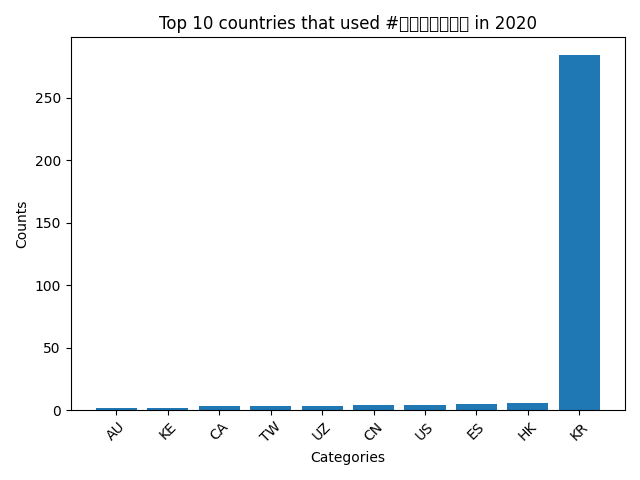
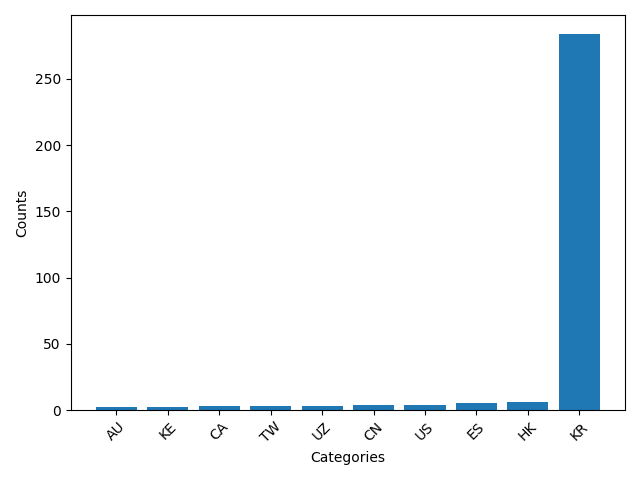
ah

diff --git a/src/alternative_reduce.py b/src/alternative_reduce.py
@@ -20,35 +20,21 @@ import matplotlib.dates as mdates
 
 # map
 total = defaultdict(lambda: Counter())
-pattern = r'geoTwitter([0-9][0-9]-[0-9][0-9]-[0-9][0-9])\.zip\.lang'
+pattern = r'geoTwitter(20-\d{2}-\d{2})\.zip\.lang'
 for output in sorted(os.listdir("./outputs")):
     date_file = os.path.join('./outputs', output)
-    
-    # Print file being processed for debugging
-    print(f"Processing file: {output}")
-    
-    with open(date_file) as f:
+    with open(date_file) as f: 
         date_data = json.load(f)
-    
-    match = re.search(pattern, output)
-    if match:
-        date = match.group(1)
-        print(f"Extracted date: {date}")
-        
-        # Debug which hashtags are found
-        found_tags = []
-        for hashtag in args.hashtags:
-            if hashtag in date_data:
-                count = sum(date_data[hashtag].values())
-                found_tags.append(f"{hashtag}({count})")
-            else:
-                count = 0
-            total[hashtag][date] += count
-        
-        if found_tags:
-            print(f"Found hashtags: {', '.join(found_tags)}")
-        else:
-            print(f"No requested hashtags found in this file")
+        match = re.search(pattern, output)
+        if match:
+            date = match.group(1)
+            for hashtag in args.hashtags:
+                if hashtag in date_data:
+                    count = sum(date_data[hashtag].values())
+                else:
+                    count = 0
+                total[hashtag][date] += count
+#print(total)
 
 # visualize
 

diff --git a/src/visualize.py b/src/visualize.py
@@ -48,7 +48,7 @@ else:
 plt.xlabel('Categories')
 plt.ylabel('Counts' if not args.percent else 'Percentage')
 title_suffix = f'Top {args.top} ' if args.top else ''
-plt.title(f'{title_suffix}countries that used {args.key} in 2020')
+#plt.title(f'{title_suffix}countries that used {args.key} in 2020')
 plt.xticks(rotation=45)  # Rotate x-axis labels for better visibility
 plt.tight_layout()
 
